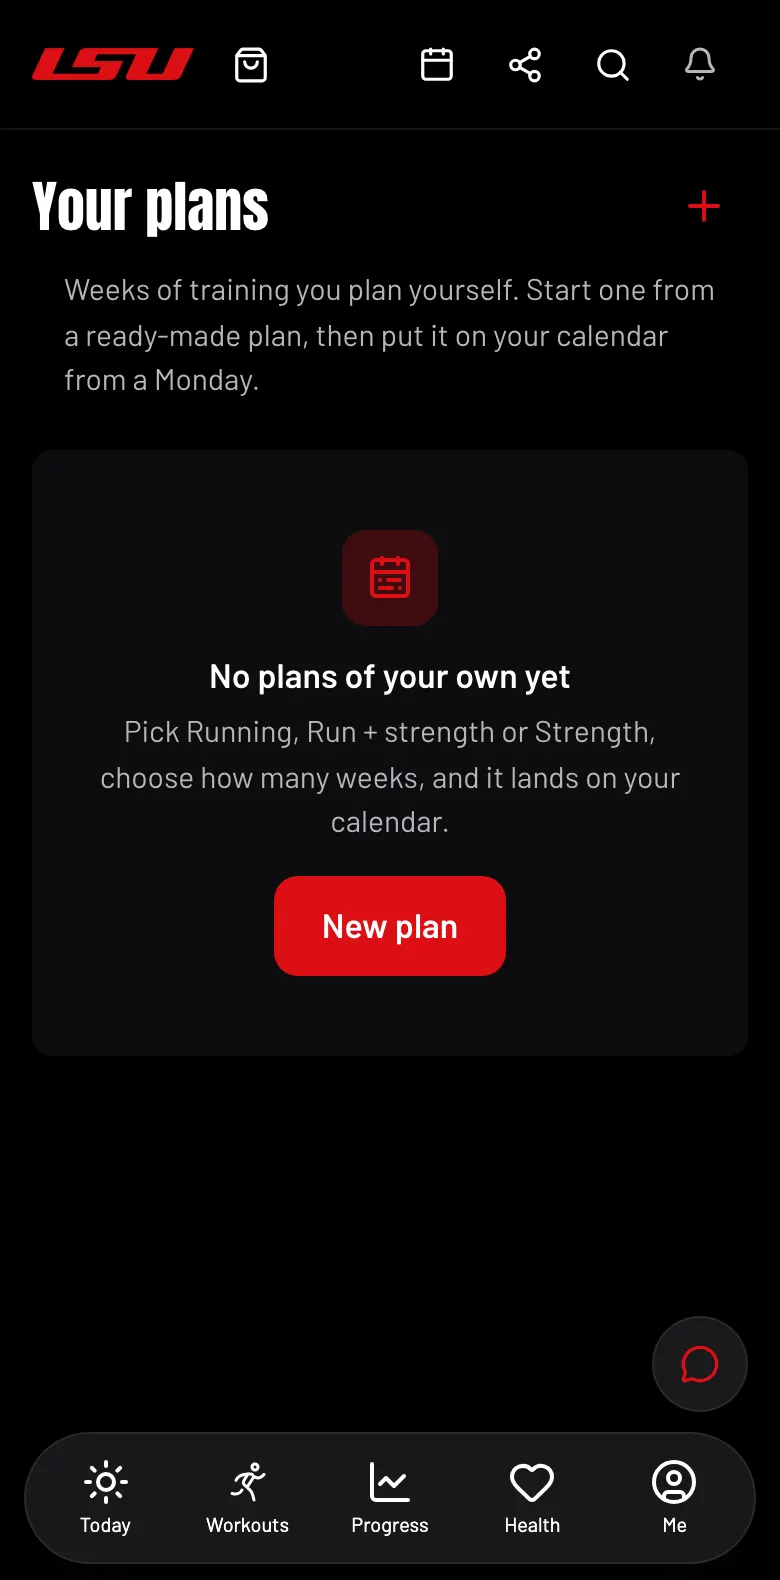
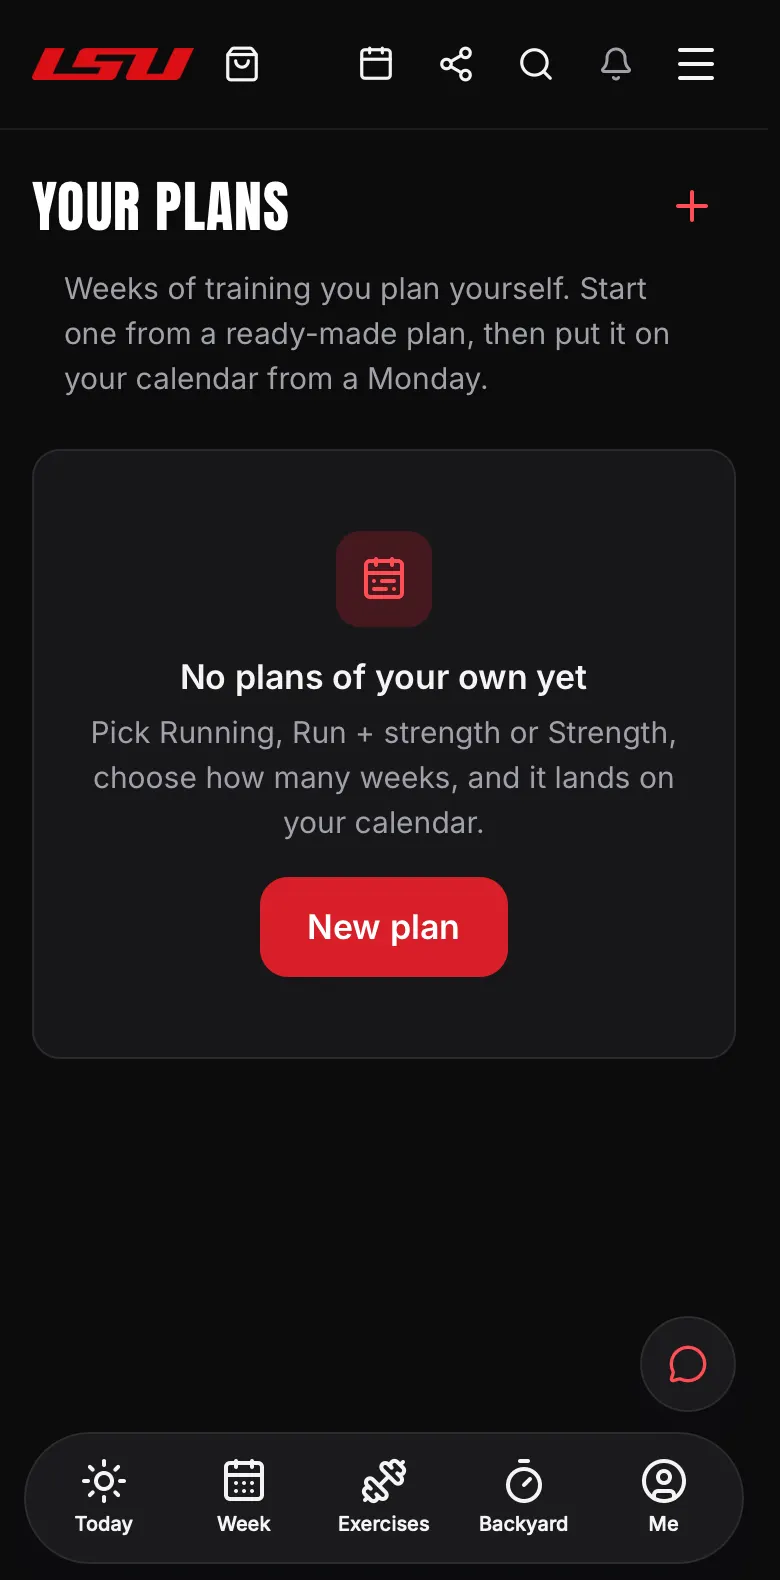
feat(onboarding): photograph the tour's screens again in the coaching design
The first-run tour showed pictures from 8 November: the old look and the old
tab bar. These are the same fifteen athlete and coach screens from HQ kit
1.0.4264 running as this installation, with the new tabs and each screen's
ring. Today's ring is on the recovery card, because Start now sits below the
photograph.

diff --git a/enterprise/hq-acceptance.md b/enterprise/hq-acceptance.md
@@ -104,6 +104,13 @@ Adopted on 2026-11-11, with HQ platform kit 1.0.4230 or later:
   photograph is cut higher (`identity.imagery.simulation.focus` 3) so the
   runner's head is in the frame. The acceptance journey visits every new tab,
   the heart and the menu.
+- **The tour's phone pictures (2026-11-12).** `native/onboarding` was
+  photographed again from kit 1.0.4264 running as this installation with HQ's
+  demo gym: the fifteen athlete and coach screens in the new look with the new
+  tab bar, each with its ring. The app is dark whatever the phone prefers, so
+  the light and dark pictures are the same screen. HQ's
+  `scripts/onboarding-screens.ts` drove Bun's WebKit view for this, through a
+  stand-in for its Chrome module, because the Mac it ran on has no Chrome.
 
 Not adopted yet, and why:
 
@@ -127,8 +134,6 @@ Not adopted yet, and why:
 - **A weekly feedback that unlocks the next week.** Woche shows the next week
   as locked and links to the feedback; the coach still releases the next
   block in HQ, the feedback does not do it by itself.
-- **The tour's phone pictures** (`native/onboarding`) still show the previous
-  look and need photographing again from the new build.
 
 Seen once by the acceptance journey on kit 1.0.4230 (2026-11-12): after a
 sign-out the app did not go idle, and XCUITest waited two minutes before each
